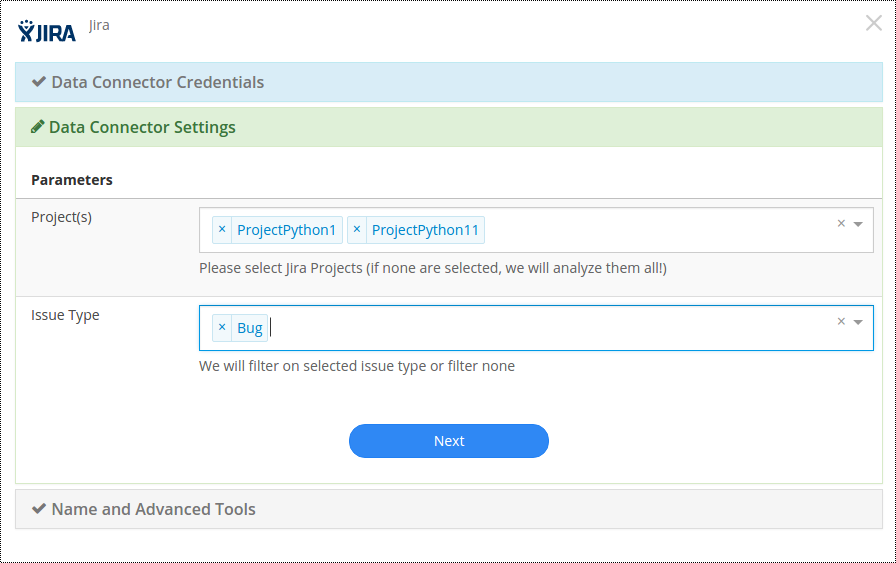
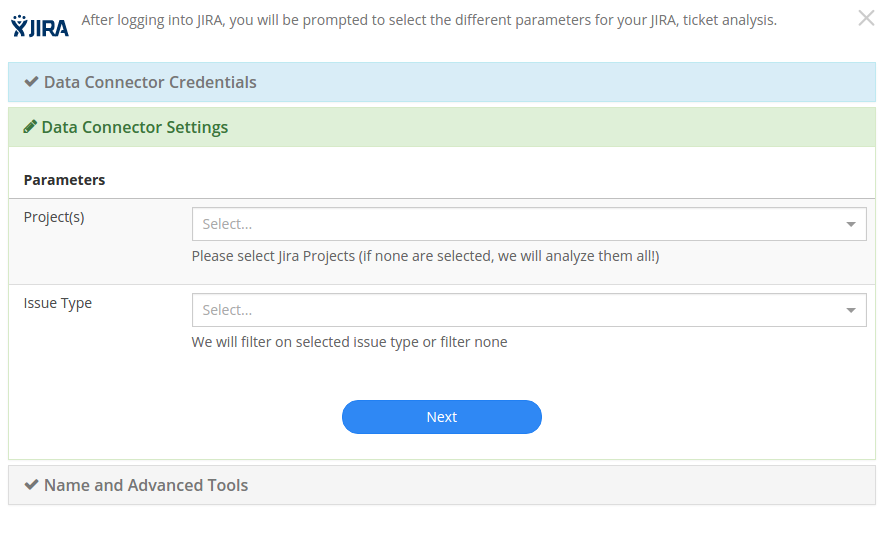
added jira guide

diff --git a/docs/build/html/searchindex.js b/docs/build/html/searchindex.js
@@ -1,1 +1,1 @@
-Search.setIndex({envversion:46,filenames:["3rdpartydataconnectors","administration","advancedoptions","analysis","createaccount","dashboard","dataconnectors","enterprisedataconnectors","glossary","index","mapdata","miscellaneous","publicdataconnectors","quickstartguide","releasenotes","signalsanalyticsengine","styleguide","tabs","widgeteditor"],objects:{},objnames:{},objtypes:{},terms:{"1rx":9,"1st":6,"30mb":9,"3rdpartydataconnector":[],"500mb":9,"9th":9,"case":2,"default":[13,17],"function":9,"import":2,"long":[10,15],"new":[1,2,5,9,10,13,15,18],"public":[],"short":15,"while":[9,15],about:[5,6,9],abov:15,absolut:10,access:[1,3,5,6,10,11,13,15],accompani:15,account:[],across:15,action:1,activ:5,actual:2,add:[5,13,15,17],addit:[2,10,13],address:10,admin:1,administr:[],advanc:[],advancedopt:[],advantag:9,aesthet:16,affair:[],affect:[3,5],after:6,again:6,against:15,agent:0,aggreg:[15,18],aleppo:2,algorithm:15,all:[1,3,9,10,13,15,16],allow:[0,2,3,5,6,7,10],alreadi:4,also:[1,3,6,9,18],alwai:[2,6],amazon:[],america:9,among:[2,6],analysi:[],analyt:[],analyz:[],angu:2,ani:[1,2,4,9,10,15,16,18],anyon:6,anyth:1,api:[0,6],apikei:[],app:[],appear:[2,3],appli:[3,13],applic:[6,7],approach:15,area:[5,13],aren:2,arrang:11,articl:[2,10],artifici:9,asset:1,associ:[0,6],associatd:2,attribut:15,augment:9,authent:0,automat:15,avail:[0,1,3,13,18],back:10,background:[],bar:[1,15],barrington:2,base:[2,9,10,13,15,17,18],basi:3,bassam:2,bayesian:15,bayliss:9,becaus:15,been:[5,6],befor:10,begin:[2,13,18],beij:9,beirut:2,below:15,best:[],between:5,block:[0,18],both:[0,5],bottom:[3,6],box:2,breadth:2,brief:[],bring:[13,17],brought:13,browser:9,bui:[],build:[2,18],built:[3,13,15],bureau:[],button:[6,16,17,18],buzzword:[],can:[0,1,2,3,4,5,6,9,10,15,16,17,18],cannot:1,cap:1,carolina:9,categori:[2,6,15],caus:[2,5],certain:[2,5,10,18],chang:18,chaoyang:9,charlott:9,chart:15,chat:[0,4],check:13,choos:[2,18],citi:10,clara:9,classroom:11,click:[2,3,5,9,10,13,16,17,18],clickabl:13,client:4,clientsupport:[4,11],close:10,cloud:[1,15],cluster:15,code:10,colleagu:13,collect:6,color:[],column:10,com:[4,6,9,11],combin:18,come:[],comment:[],common:1,commonli:2,compani:[4,9],compar:10,complet:9,comprehens:9,comput:1,condit:18,configur:10,connect:[],connected:5,consol:1,construct:15,consum:[],consumeraffair:6,contain:[2,10,13,15,17],content:[],context:[2,15,17],continu:[],contribut:15,contributor:[],corner:3,cornwal:9,correspond:[0,10,15],could:2,count:15,countri:10,cover:[3,9],coverag:2,creat:[],creator:[1,10],credenti:[0,12],csv:[10,13],current:[3,18],custom:[],customiz:5,cut:2,dai:10,daili:10,dashboard:[],databas:[6,13],dataconnector:[],dataconnetor:[],datapoint:[3,13],dataset:[2,3,5,8,10,15],date:[0,10],davison:2,decis:9,deem:15,deep:[5,9,15],defaultwidget:[],deploy:1,depot:[],deriv:9,describ:[],descript:[],design:[3,17],desir:17,detail:[3,13,15,17],develop:6,dictat:1,differ:[2,10],dimens:[3,8,18],disabl:0,discov:13,discoveri:[],discuss:[10,15,17],dispar:[5,15],district:9,dive:5,diverg:18,doc:[],don:10,done:[1,15],donut:15,dorchest:9,dorset:9,down:13,download:6,dr1:9,drag:2,drill:13,drop:[2,11],dure:10,dynam:15,each:[1,9,10,15,18],earlier:10,easi:[9,13],easili:2,ec2:1,edit:[1,2,16,17],editor:[2,18],edu:11,either:3,els:[1,5],email:10,emphas:9,empow:[],end:2,engin:[],english:9,enter:0,enterpris:[],entir:[3,5,9],entiti:[10,15],entri:18,environ:9,equal:1,essenti:3,etc:[1,2,10],etsi:[],even:5,event:15,everi:[2,3,9,10,13,15,17],everyth:3,exampl:[2,6,7,10],excel:[10,13],exist:[2,4],expand:11,experi:1,explain:[],extend:15,extra:3,extract:15,extrem:5,facebook:[],facet:5,faster:[],featur:9,feed:2,feedback:[],feel:[11,16],few:[2,17],field:[6,8,10,13],file:[6,9,10,13,15],filter:[],financi:[],finish:2,first:[],flexibl:[5,10],focu:5,folder:13,follow:9,font:[],forese:[],format:[3,6,10],found:15,free:11,freez:3,french:9,from:[],funnel:3,gaug:[],gen:9,gener:[],generaliz:2,geograph:[],german:9,get:[1,9],give:[1,10],given:1,global:[3,17],gmail:[],goe:[10,15],googl:[],gotten:2,gradient:18,gram:15,granular:10,granularli:5,graph:15,great:9,ground:2,guanghua:9,guess:10,hand:6,happen:[],happi:11,have:[0,2,4,5,17],help:[3,4,9,10,15,17],here:[3,18],hierarchi:10,high:[],highlight:18,hold:[1,5],holist:5,home:[],homepag:[5,6,13],hone:[],horizon:11,hourli:10,hover:17,how:[9,13,15,18],howev:10,html:[],http:[4,6,9],human:9,icon:[3,5,10,17],idea:[],identif:[],identifi:[2,9,10,15],ignor:2,illustr:9,imag:5,includ:[2,6,7,9,15],increas:2,inde:[],independ:9,index:[],individu:[1,10,15,18],industri:2,influenc:15,info:[],inform:[1,2,9,10,13,15],input:[10,15],insid:3,insight:[],instal:9,instruct:[],intellig:9,intend:[],interact:[3,5],intercom:[],interest:13,interfac:[5,9],intern:[6,7],internet:6,interpret:[9,13],introduc:10,intuit:17,invit:1,italian:9,item:10,jamba:15,japanes:9,jira:[],john:2,join:15,journei:[],json:6,juic:15,jump:9,junk:[],just:[2,5],keep:[],kei:[0,6],kind:15,knowledg:9,label:2,laila:2,languag:[9,15],larg:15,larger:9,lat:10,later:[],latest:[],latitud:10,layer:9,learn:[3,5,6,9,10,15],least:[],leav:3,lectur:11,left:[3,6,10],lemmat:15,let:[13,18],leverag:[9,15],licens:11,like:[2,5,10,16],limit:9,line:11,lingo:2,link:2,lisa:2,list:[1,2,15],livechat:[],local:17,locat:10,log:13,logic:[2,17],login:0,lon:10,longer:3,longitud:10,look:[5,9,15],loop:10,low:[],lstm:15,machin:[9,10,15],made:[5,15,18],mai:2,mail:4,mailto:[],main:[1,2,3],make:[0,1,3,9,13,15,16],mani:[2,6,9,10,13,17],map:[],mapdata:[],mart:[],match:[0,2],mathemat:9,matter:9,maxdepth:[],maximum:1,mcdowal:2,mean:5,meaning:[],media:[],member:1,memori:15,mention:10,menu:[2,3,5,6,8,10,16,17],merg:[3,17],messag:2,method:[1,3,9,18],metric:[8,18],microsoft:7,might:5,millership:2,mind:[],minut:9,misc:[],mission:9,model:[10,15],modifi:[1,5],modul:[],monitor:5,month:10,monthli:10,more:[5,6,9,10,11,13,15],morehead:9,most:1,much:[9,10],multi:15,multipl:[3,5,10],mysql:7,nativ:9,nav:1,navig:15,need:[2,10,13],neg:2,network:15,neural:15,neutral:2,next:[3,9,10,17],nlp:[9,15],nlu:15,node:6,nois:2,non:2,normal:[10,13],north:9,note:4,notif:[],now:13,npmj:6,number:10,object:[0,1],occur:[10,15],ocur:[],offer:6,often:15,onc:[3,5,13],onli:[1,5,9,13],onlin:[],oper:18,optim:1,option:[],oracl:7,order:[0,10,15],organ:[4,6,10,17],origin:13,other:[1,2,3,6,10,13,15,18],our:[1,4,6,9,11,13,15],out:[2,3,13,15],outlin:15,output:[10,15],over:[15,17],overal:9,overrid:[3,17,18],own:[],owner:1,pack:18,packag:[2,6],page:[1,3,5,6,9,15,18],palett:18,panel:3,paramet:3,paramount:15,part:15,passiv:5,password:4,pattern:15,paul:9,peel:9,per:[2,3],percentag:15,perform:15,period:[4,15],perman:[1,3],permiss:[],perri:2,persist:3,person:10,peter:2,phd:11,phone:10,pick:[2,18],pictur:[],pivot:[5,13,15],pkwy:9,plai:[],platform:[6,9,10],pleas:[4,11],png:[],point:[9,10,13,18],pop:0,popul:9,possibl:10,post:2,postgresql:7,potenti:[2,15],power:9,pre:13,predict:15,premis:1,prior:6,privat:1,privileg:1,process:[],product:[],professor:11,program:9,progress:[],proper:9,properti:5,proprietari:15,protect:[],provid:[1,2,6,9,10,11],publicli:13,pull:0,purchas:4,quantit:15,queri:[0,3,17],question:[4,15],quickli:2,quickstartguid:[],ran:15,rang:[0,18],raw:[],read:9,readi:13,readthedoc:[],record:10,ref:[],refer:[],reflect:9,region:10,regist:4,relat:[2,15],relationship:15,releas:[],remov:[1,3],report:2,repres:[8,10,15],reprocess:[2,8],requir:[0,6,9,10],resid:10,result:[],revenu:[],review:[],right:[],road:9,roll:10,root:[5,15],rss:2,rst:[],run:[9,10,15],salesforc:[],same:[2,10,15],sampl:9,santa:9,save:3,scenario:2,schedul:6,scientist:11,score:[2,15],sdk:[],search:[],section:[10,15],see:[2,5,6,10,13,15,16,18],segment:13,select:[0,2,3,10,13,18],semant:15,send:4,sentenc:2,sentiment:[],separ:[10,18],seq2seq:15,seri:15,server:7,servic:1,set:[1,2,3,6,15,17],share:[],shop:[],should:[2,4,6,9,10],show:15,side:10,signalsanalyticsengin:[],signalssdk:[],signific:[9,15],silvia:1,simpli:[2,4,10,17],sinc:2,singl:18,site:6,smaller:15,social:[],soho:9,some:[2,5,6,10,13],someon:1,sort:18,sound:9,sourc:[2,5,6,7,8,10,13],spam:[],spanish:9,spatial:[],specialist:[4,11],specif:[2,9,18],specifi:[0,10,13,18],speech:15,spell:9,split:5,sql:7,state:10,statist:[9,15],stem:15,step:15,still:[1,3],stop:15,stopword:[],store:[],stratifi:9,stratifyd:[4,9,11],stratum:9,stream:[],street:[9,10],structur:[3,10,15],student:[],style:[],submit:2,subpopul:9,subset:13,successfulli:[],support:[2,4,9,11,18],suppress:2,sure:0,survei:9,surveymonkei:[],system:6,tab:[],tabopt:[],tag:[5,15],take:1,tasteanalyt:9,taxonomi:[],team:4,technolog:11,tempor:[],term:[2,15],text:[2,9,10,15,18],textual:[],than:[6,11,15],thei:[1,2,15],them:[1,2,5],theme:13,themselv:10,therefor:[10,15],thi:[1,2,3,5,6,9,10,15,17,18],thing:1,those:[10,13],three:[3,6,15],through:[0,2,15],thu:11,ticket:[],tie:[3,10],time:[10,15],timestamp:10,todo:[],togeth:[15,17],token:15,tom:2,took:9,top:15,topic:[],toward:6,train:2,treat:10,trello:[],trend:[],trial:[4,9],truli:9,tune:[2,15],tweak:2,twitter:[],two:[2,3,15,18],type:[0,2,10,13,15,18],typic:[2,15],uncov:15,under:[],underli:15,understand:15,unexpect:[],uniform:6,uniqu:[2,9,15],univers:11,unlrel:2,unstructur:[3,9,10,15],unsupervis:[9,10],upload:[6,9,13],upon:10,uservoic:[],usual:0,util:15,vaniti:[],vari:9,varieti:7,veri:2,versa:2,via:9,video:5,view:[1,3,6,13,15],virtual:1,vise:2,visitor:0,visual:[],vivian:1,viz:18,wai:[2,9],wal:[],walkthrough:[],want:[0,10,11,18],wealth:13,web:[1,9],webcontact:9,weibo:[],well:[5,15],what:[0,1,15,18],when:[0,2,3,9,10,15],whether:10,which:[0,2,9,13,15],who:[4,5,11,15],widget:[],widgeteditor:[],window:0,wish:18,within:[1,5,9,10,13],word:[2,15],wrapper:6,write:2,www:6,year:10,yearli:10,yelp:15,yet:9,you:[0,1,2,3,4,5,6,9,10,11,13,15,18],youku:[],your:[],youtub:[],zendesk:[],zip:10},titles:["3rd Party Data Connectors","Administration","Advanced Options","Analyzing Data","Creating an Account","Creating a Dashboard","Connecting to Data","Enterprise Data Connectors","Glossary","Welcome to the Signals User Guide!","Mapping Data","Misc.","Public Data Connectors","Quick Start Guide","Release Notes","Signals Analytics Engine","Dashboard Styles","Dashboard Tabs","Create Your Own Widgets"],titleterms:{"3rd":0,"public":12,account:[1,4,13],administr:1,advanc:2,affair:12,amazon:12,analysi:[],analyt:[0,15],analyz:3,app:12,best:12,bui:12,bureau:12,buzzword:15,chapter:[],china:9,chines:[],color:18,come:[],comment:12,connect:[6,13],connector:[0,7,12],consum:12,contact:9,content:[],contributor:[10,15],creat:[4,5,13,18],custom:12,dashboard:[3,5,13,16,17],data:[0,3,6,7,10,12,13,15],depot:12,dictionari:[],did:[],document:[],doe:[],engin:15,enterpris:7,etsi:12,facebook:12,faq:9,feedback:12,filter:3,financi:12,find:13,first:13,font:18,forese:0,from:[],gener:[],geograph:10,glossari:8,gmail:0,googl:[0,12],group:1,guid:[9,13],home:12,identif:[],implement:1,inde:12,indic:[],info:1,insight:13,instruct:[],intercom:0,introduct:9,jira:0,junk:2,level:[1,3],livechat:0,london:9,low:12,manag:[],manual:9,map:10,mart:12,meaning:13,media:12,misc:11,name:[],note:14,option:[2,18],own:18,parti:0,permiss:1,plai:12,process:15,product:12,protect:12,quick:13,releas:14,result:13,review:12,salesforc:0,sdk:6,search:12,sentiment:2,share:13,shop:12,sign:[],signal:[1,6,9,11,15],silicon:9,social:12,spam:2,spatial:[],start:13,state:9,stopword:2,store:12,student:11,style:[16,18],surveymonkei:0,tab:[3,17],tabl:[],taxonomi:2,tempor:[10,15],textual:10,topic:15,trello:0,trend:15,twitter:12,unit:9,user:[1,9],uservoic:0,vallei:9,visual:[13,18],wal:12,weibo:12,welcom:9,where:[],widget:[3,18],youku:12,your:[13,18],youtub:12,zendesk:0}})
+Search.setIndex({envversion:46,filenames:["3rdpartydataconnectors","administration","advancedoptions","analysis","createaccount","dashboard","dataconnectors","enterprisedataconnectors","glossary","index","mapdata","miscellaneous","publicdataconnectors","quickstartguide","releasenotes","signalsanalyticsengine","styleguide","tabs","widgeteditor"],objects:{},objnames:{},objtypes:{},terms:{"1rx":9,"1st":6,"30mb":9,"3rdpartydataconnector":[],"500mb":9,"9th":9,"case":2,"default":[13,17],"function":9,"import":2,"long":[10,15],"new":[1,2,5,9,10,13,15,18],"public":[],"short":15,"while":[9,15],about:[5,6,9],abov:15,absolut:10,access:[1,3,5,6,10,11,13,15],accompani:15,account:[],across:15,action:1,activ:5,actual:2,add:[5,13,15,17],addit:[2,10,13],address:10,admin:1,administr:[],advanc:[],advancedopt:[],advantag:9,aesthet:16,affair:[],affect:[3,5],after:6,again:6,against:15,agent:0,aggreg:[15,18],aleppo:2,algorithm:15,all:[0,1,3,9,10,13,15,16],allow:[0,2,3,5,6,7,10],alreadi:4,also:[0,1,3,6,9,18],alwai:[2,6],amazon:[],america:9,among:[2,6],analysi:[],analyt:[],analyz:[],angu:2,ani:[1,2,4,9,10,15,16,18],anyon:6,anyth:1,api:[0,6],apikei:[],app:[],appear:[2,3],appli:[3,13],applic:[6,7],approach:15,area:[5,13],aren:2,arrang:11,articl:[2,10],artifici:9,asset:1,associ:[0,6],associatd:2,attribut:15,augment:9,authent:0,automat:15,avail:[0,1,3,13,18],back:10,background:[],bar:[1,15],barrington:2,base:[2,9,10,13,15,17,18],basi:3,bassam:2,bayesian:15,bayliss:9,becaus:15,been:[5,6],befor:10,begin:[2,13,18],beij:9,beirut:2,below:15,best:[],between:5,block:[0,18],both:[0,5],bottom:[3,6],box:2,breadth:2,brief:[],bring:[13,17],brought:13,browser:9,bui:[],build:[2,18],built:[3,13,15],bureau:[],button:[6,16,17,18],buzzword:[],can:[0,1,2,3,4,5,6,9,10,15,16,17,18],cannot:1,cap:1,carolina:9,categori:[2,6,15],caus:[2,5],certain:[2,5,10,18],chang:18,chaoyang:9,charlott:9,chart:15,chat:[0,4],check:13,choos:[2,18],citi:10,clara:9,classroom:11,click:[2,3,5,9,10,13,16,17,18],clickabl:13,client:4,clientsupport:[4,11],close:10,cloud:[1,15],cluster:15,code:10,colleagu:13,collect:6,color:[],column:10,com:[4,6,9,11],combin:18,come:[],comment:[],common:1,commonli:2,compani:[4,9],compar:10,complet:9,comprehens:9,comput:1,condit:18,configur:10,connect:[],connected:5,consol:1,construct:15,consum:[],consumeraffair:6,contain:[2,10,13,15,17],content:[],context:[2,15,17],continu:[],contribut:15,contributor:[],corner:3,cornwal:9,correspond:[0,10,15],could:2,count:15,countri:10,cover:[3,9],coverag:2,creat:[],creator:[1,10],credenti:[0,12],csv:[10,13],current:[3,18],custom:[],customiz:5,cut:2,dai:10,daili:10,dashboard:[],databas:[6,13],dataconnector:[],dataconnetor:[],datapoint:[3,13],dataset:[2,3,5,8,10,15],date:[0,10],davison:2,decis:9,deem:15,deep:[5,9,15],defaultwidget:[],deploy:1,depot:[],deriv:9,describ:[],descript:[],design:[3,17],desir:[0,17],detail:[3,13,15,17],develop:6,dictat:1,differ:[2,10],dimens:[3,8,18],disabl:0,discov:13,discoveri:[],discuss:[10,15,17],dispar:[5,15],district:9,dive:5,diverg:18,doc:[],don:10,done:[1,15],donut:15,dorchest:9,dorset:9,down:13,download:6,dr1:9,drag:2,drill:13,drop:[2,11],dure:10,dynam:15,each:[1,9,10,15,18],earlier:10,easi:[9,13],easili:2,ec2:1,edit:[1,2,16,17],editor:[2,18],edu:11,either:3,els:[1,5],email:10,emphas:9,empow:[],end:2,engin:[],english:9,enter:0,enterpris:[],entir:[3,5,9],entiti:[10,15],entri:18,environ:9,equal:1,essenti:3,etc:[1,2,10],etsi:[],even:5,event:15,everi:[2,3,9,10,13,15,17],everyth:3,exampl:[2,6,7,10],excel:[10,13],exist:[2,4],expand:11,experi:1,explain:[],extend:15,extra:3,extract:15,extrem:5,facebook:[],facet:5,faster:[],featur:9,feed:2,feedback:[],feel:[11,16],few:[2,17],field:[6,8,10,13],file:[6,9,10,13,15],filter:[],financi:[],finish:2,first:[],flexibl:[5,10],focu:5,folder:13,follow:9,font:[],forese:[],format:[3,6,10],found:15,free:11,freez:3,french:9,from:[],funnel:3,gaug:[],gen:9,gener:[],generaliz:2,geograph:[],german:9,get:[1,9],give:[1,10],given:1,global:[3,17],gmail:[],goe:[10,15],googl:[],gotten:2,gradient:18,gram:15,granular:10,granularli:5,graph:15,great:9,ground:2,guanghua:9,guess:10,hand:6,happen:[],happi:11,have:[0,2,4,5,17],help:[3,4,9,10,15,17],here:[3,18],hierarchi:10,high:[],highlight:18,hold:[1,5],holist:5,home:[],homepag:[5,6,13],hone:[],horizon:11,hourli:10,hover:17,how:[9,13,15,18],howev:10,html:[],http:[4,6,9],human:9,icon:[3,5,10,17],idea:[],identif:[],identifi:[2,9,10,15],ignor:2,illustr:9,imag:5,includ:[2,6,7,9,15],increas:2,inde:[],independ:9,index:[],individu:[1,10,15,18],industri:2,influenc:15,info:[],inform:[1,2,9,10,13,15],input:[10,15],insid:3,insight:[],instal:9,instruct:[],intellig:9,intend:[],interact:[3,5],intercom:[],interest:13,interfac:[5,9],intern:[6,7],internet:6,interpret:[9,13],introduc:10,intuit:17,invit:1,italian:9,item:10,jamba:15,japanes:9,jira:[],john:2,join:15,journei:[],json:6,juic:15,jump:9,junk:[],just:[2,5],keep:[],kei:[0,6],kind:15,knowledg:9,label:2,laila:2,languag:[9,15],larg:15,larger:9,lat:10,later:[],latest:[],latitud:10,layer:9,learn:[3,5,6,9,10,15],least:[],leav:3,lectur:11,left:[3,6,10],lemmat:15,let:[13,18],leverag:[9,15],licens:11,like:[2,5,10,16],limit:9,line:11,lingo:2,link:2,lisa:2,list:[1,2,15],livechat:[],local:17,locat:10,log:13,logic:[2,17],login:0,lon:10,longer:3,longitud:10,look:[5,9,15],loop:10,low:[],lstm:15,machin:[9,10,15],made:[5,15,18],mai:2,mail:4,mailto:[],main:[1,2,3],make:[0,1,3,9,13,15,16],mani:[2,6,9,10,13,17],map:[],mapdata:[],mart:[],match:[0,2],mathemat:9,matter:9,maxdepth:[],maximum:1,mcdowal:2,mean:5,meaning:[],media:[],member:1,memori:15,mention:10,menu:[2,3,5,6,8,10,16,17],merg:[3,17],messag:2,method:[1,3,9,18],metric:[8,18],microsoft:7,might:5,millership:2,mind:[],minut:9,misc:[],mission:9,model:[10,15],modifi:[1,5],modul:[],monitor:5,month:10,monthli:10,more:[5,6,9,10,11,13,15],morehead:9,most:1,much:[9,10],multi:15,multipl:[3,5,10],mysql:7,nativ:9,nav:1,navig:15,need:[2,10,13],neg:2,network:15,neural:15,neutral:2,next:[3,9,10,17],nlp:[9,15],nlu:15,node:6,nois:2,non:2,normal:[10,13],north:9,note:4,noth:0,notif:[],now:13,npmj:6,number:10,object:[0,1],occur:[10,15],ocur:[],offer:6,often:15,onc:[3,5,13],onli:[1,5,9,13],onlin:[],oper:18,optim:1,option:[],oracl:7,order:[0,10,15],organ:[4,6,10,17],origin:13,other:[1,2,3,6,10,13,15,18],our:[1,4,6,9,11,13,15],out:[2,3,13,15],outlin:15,output:[10,15],over:[15,17],overal:9,overrid:[3,17,18],own:[],owner:1,pack:18,packag:[2,6],page:[1,3,5,6,9,15,18],palett:18,panel:3,paramet:3,paramount:15,part:15,passiv:5,password:4,pattern:15,paul:9,peel:9,per:[2,3],percentag:15,perform:15,period:[4,15],perman:[1,3],permiss:[],perri:2,persist:3,person:10,peter:2,phd:11,phone:10,pick:[2,18],pictur:[],pivot:[5,13,15],pkwy:9,plai:[],platform:[6,9,10],pleas:[4,11],png:[],point:[9,10,13,18],pop:0,popul:9,possibl:10,post:2,postgresql:7,potenti:[2,15],power:9,pre:13,predict:15,premis:1,prior:6,privat:1,privileg:1,process:[],product:[],professor:11,program:9,progress:[],project:0,proper:9,properti:5,proprietari:15,protect:[],provid:[1,2,6,9,10,11],publicli:13,pull:0,purchas:4,quantit:15,queri:[0,3,17],question:[4,15],quickli:2,quickstartguid:[],ran:15,rang:[0,18],raw:[],read:9,readi:13,readthedoc:[],record:10,ref:[],refer:[],reflect:9,region:10,regist:4,relat:[2,15],relationship:15,releas:[],remov:[1,3],report:2,repres:[8,10,15],reprocess:[2,8],requir:[0,6,9,10],resid:10,result:[],revenu:[],review:[],right:[],road:9,roll:10,root:[5,15],rss:2,rst:[],run:[9,10,15],salesforc:[],same:[2,10,15],sampl:9,santa:9,save:3,scenario:2,schedul:6,scientist:11,score:[2,15],sdk:[],search:[],section:[10,15],see:[2,5,6,10,13,15,16,18],segment:13,select:[0,2,3,10,13,18],semant:15,send:4,sentenc:2,sentiment:[],separ:[10,18],seq2seq:15,seri:15,server:7,servic:1,set:[1,2,3,6,15,17],share:[],shop:[],should:[2,4,6,9,10],show:15,side:10,signalsanalyticsengin:[],signalssdk:[],signific:[9,15],silvia:1,simpli:[2,4,10,17],sinc:2,singl:18,site:6,smaller:15,social:[],soho:9,some:[2,5,6,10,13],someon:1,sort:18,sound:9,sourc:[2,5,6,7,8,10,13],spam:[],spanish:9,spatial:[],specialist:[4,11],specif:[2,9,18],specifi:[0,10,13,18],speech:15,spell:9,split:5,sql:7,state:10,statist:[9,15],stem:15,step:15,still:[1,3],stop:15,stopword:[],store:[],stratifi:9,stratifyd:[4,9,11],stratum:9,stream:[],street:[9,10],structur:[3,10,15],student:[],style:[],submit:2,subpopul:9,subset:13,successfulli:[],support:[2,4,9,11,18],suppress:2,sure:0,survei:9,surveymonkei:[],system:6,tab:[],tabopt:[],tag:[5,15],take:1,tasteanalyt:9,taxonomi:[],team:4,technolog:11,tempor:[],term:[2,15],text:[2,9,10,15,18],textual:[],than:[6,11,15],thei:[1,2,15],them:[1,2,5],theme:13,themselv:10,therefor:[10,15],thi:[1,2,3,5,6,9,10,15,17,18],thing:1,those:[10,13],three:[3,6,15],through:[0,2,15],thu:11,ticket:0,tie:[3,10],time:[10,15],timestamp:10,todo:[],togeth:[15,17],token:15,tom:2,took:9,top:15,topic:[],toward:6,train:2,treat:10,trello:[],trend:[],trial:[4,9],truli:9,tune:[2,15],tweak:2,twitter:[],two:[2,3,15,18],type:[0,2,10,13,15,18],typic:[2,15],uncov:15,under:[],underli:15,understand:15,unexpect:[],uniform:6,uniqu:[2,9,15],univers:11,unlrel:2,unstructur:[3,9,10,15],unsupervis:[9,10],upload:[6,9,13],upon:10,uservoic:[],usual:0,util:15,vaniti:[],vari:9,varieti:7,veri:2,versa:2,via:9,video:5,view:[1,3,6,13,15],virtual:1,vise:2,visitor:0,visual:[],vivian:1,viz:18,wai:[2,9],wal:[],walkthrough:[],want:[0,10,11,18],wealth:13,web:[1,9],webcontact:9,weibo:[],well:[5,15],what:[0,1,15,18],when:[0,2,3,9,10,15],whether:10,which:[0,2,9,13,15],who:[4,5,11,15],widget:[],widgeteditor:[],window:0,wish:18,within:[1,5,9,10,13],word:[2,15],wrapper:6,write:2,www:6,year:10,yearli:10,yelp:15,yet:9,you:[0,1,2,3,4,5,6,9,10,11,13,15,18],youku:[],your:[],youtub:[],zendesk:[],zip:10},titles:["3rd Party Data Connectors","Administration","Advanced Options","Analyzing Data","Creating an Account","Creating a Dashboard","Connecting to Data","Enterprise Data Connectors","Glossary","Welcome to the Signals User Guide!","Mapping Data","Misc.","Public Data Connectors","Quick Start Guide","Release Notes","Signals Analytics Engine","Dashboard Styles","Dashboard Tabs","Create Your Own Widgets"],titleterms:{"3rd":0,"public":12,account:[1,4,13],administr:1,advanc:2,affair:12,amazon:12,analysi:[],analyt:[0,15],analyz:3,app:12,best:12,bui:12,bureau:12,buzzword:15,chapter:[],china:9,chines:[],color:18,come:[],comment:12,connect:[6,13],connector:[0,7,12],consum:12,contact:9,content:[],contributor:[10,15],creat:[4,5,13,18],custom:12,dashboard:[3,5,13,16,17],data:[0,3,6,7,10,12,13,15],depot:12,dictionari:[],did:[],document:[],doe:[],engin:15,enterpris:7,etsi:12,facebook:12,faq:9,feedback:12,filter:3,financi:12,find:13,first:13,font:18,forese:0,from:[],gener:[],geograph:10,glossari:8,gmail:0,googl:[0,12],group:1,guid:[9,13],home:12,identif:[],implement:1,inde:12,indic:[],info:1,insight:13,instruct:[],intercom:0,introduct:9,jira:0,junk:2,level:[1,3],livechat:0,london:9,low:12,manag:[],manual:9,map:10,mart:12,meaning:13,media:12,misc:11,name:[],note:14,option:[2,18],own:18,parti:0,permiss:1,plai:12,process:15,product:12,protect:12,quick:13,releas:14,result:13,review:12,salesforc:0,sdk:6,search:12,sentiment:2,share:13,shop:12,sign:[],signal:[1,6,9,11,15],silicon:9,social:12,spam:2,spatial:[],start:13,state:9,stopword:2,store:12,student:11,style:[16,18],surveymonkei:0,tab:[3,17],tabl:[],taxonomi:2,tempor:[10,15],textual:10,topic:15,trello:0,trend:15,twitter:12,unit:9,user:[1,9],uservoic:0,vallei:9,visual:[13,18],wal:12,weibo:12,welcom:9,where:[],widget:[3,18],youku:12,your:[13,18],youtub:12,zendesk:0}})

diff --git a/docs/build/html/3rdpartydataconnectors.html b/docs/build/html/3rdpartydataconnectors.html
@@ -112,6 +112,7 @@
 <li class="toctree-l1"><a class="reference internal" href="advancedoptions.html">Advanced Options</a></li>
 <li class="toctree-l1"><a class="reference internal" href="administration.html">Administration</a></li>
 <li class="toctree-l1"><a class="reference internal" href="miscellaneous.html">Misc.</a></li>
+<li class="toctree-l1"><a class="reference internal" href="releasenotes.html">Release Notes</a></li>
 </ul>
 
             
@@ -206,6 +207,7 @@
 <div class="section" id="jira">
 <h2>JIRA<a class="headerlink" href="#jira" title="Permalink to this headline">¶</a></h2>
 <img alt="_images/jira.png" src="_images/jira.png" />
+<p>With the JIRA Data Connector, you can select which projects you want to analyze. You can also specify a ticket type if desired. If nothing is specified, Signals will pull all of your JIRA data.</p>
 </div>
 <div class="section" id="uservoice">
 <h2>UserVoice<a class="headerlink" href="#uservoice" title="Permalink to this headline">¶</a></h2>

diff --git a/docs/build/html/dataconnectors.html b/docs/build/html/dataconnectors.html
@@ -98,6 +98,7 @@
 <li class="toctree-l1"><a class="reference internal" href="advancedoptions.html">Advanced Options</a></li>
 <li class="toctree-l1"><a class="reference internal" href="administration.html">Administration</a></li>
 <li class="toctree-l1"><a class="reference internal" href="miscellaneous.html">Misc.</a></li>
+<li class="toctree-l1"><a class="reference internal" href="releasenotes.html">Release Notes</a></li>
 </ul>
 
             

diff --git a/docs/source/3rdpartydataconnectors.rst b/docs/source/3rdpartydataconnectors.rst
@@ -67,6 +67,9 @@ JIRA
 .. image:: jira.png
 
 
+With the JIRA Data Connector, you can select which projects you want to analyze. You can also specify a ticket type if desired. If nothing is specified, Signals will pull all of your JIRA data.
+
+
 UserVoice
 ~~~~~~~~~~
 
